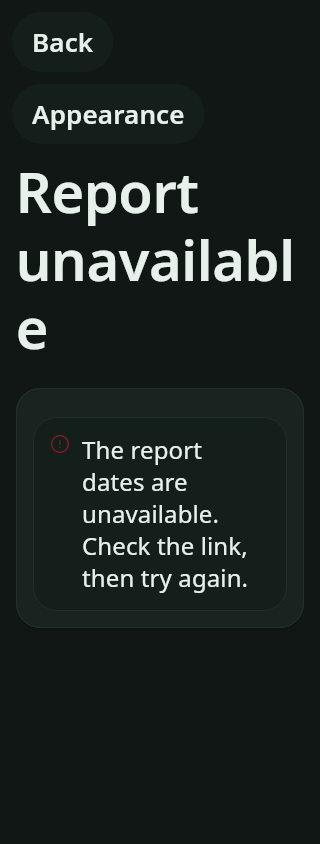
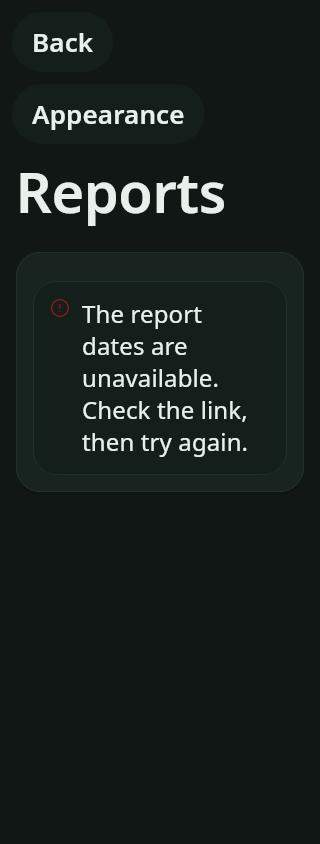
Keep report recovery readable with large text
- Reuse the short Reports heading so recovery does not split a word at narrow widths.
- Preserve the complete error explanation and system text scaling.
- Verify both theme/layout checks and refresh the recovery captures.

Changed region(s): [[0.0625, 0.2156, 0.9062, 0.7085], [0.0312, 0.3697, 0.1562, 0.4313], [0.1562, 0.5237, 0.2188, 0.5545]]

diff --git a/lib/features/reports/reports_page.dart b/lib/features/reports/reports_page.dart
@@ -801,7 +801,7 @@ class _ReportItemRecovery extends StatelessWidget {
     return PageContent(
       panelled: true,
       children: [
-        Heading(t.reportItemUnavailableTitle),
+        Heading(t.reportsTitle),
         const SizedBox(height: 12),
         VitalNotice(
           key: const ValueKey('report-item-recovery'),

diff --git a/docs/design/reviews/2026-10-22-fifteen/T03/README.md b/docs/design/reviews/2026-10-22-fifteen/T03/README.md
@@ -58,6 +58,8 @@ Real Flutter widget captures use synthetic local records and bundled text/icon f
 
 These are host widget captures, not physical-device or screen-reader acceptance. Native build/boot, physical TalkBack/VoiceOver, release gates and measured device performance remain with the lead and existing gate register. This task does not close tickets 20/21 or G04 by itself.
 
+Lead layout review shortened the recovery heading to the existing “Reports” label after the 320 px / 2x capture split “unavailable” inside a word. The detailed recovery message remains unchanged. Both theme/layout checks passed again and all six captures were refreshed; system text scaling is preserved.
+
 ## Loaded skills
 
 All paths below were directly readable and loaded; no native skill loader was required and no skill-file access failed:
